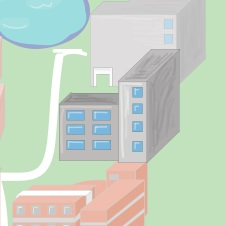
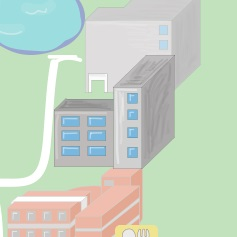
add fiesta

diff --git a/public/css/layout.css b/public/css/layout.css
@@ -35,7 +35,7 @@
 	margin-bottom: 3%;
 	width: 75%;
     padding: 0 5%;
-	background-color: rgba(245, 245, 245, 0.7);
+	background-color: rgba(245, 245, 245, 0.9);
 }
 .nav-margin {
 	margin-top: 10px;
@@ -91,7 +91,7 @@
 }
 
 nav {
-	background-color: #2196f3 !important;
+	background-color: #5D5555 !important;
 }
 .brand-logo {
 	margin-left: 10px;

diff --git a/public/css/campus/map.css b/public/css/campus/map.css
@@ -731,6 +731,19 @@
 	top: 63.8%;
 	width: 4.8%;
 }
+/*fiesta*/
+#food9 {
+	position: absolute;
+	left: 88.5%;
+	top: 60%;
+	width: 3%;
+	z-index: 8;
+}
+#food9:hover {
+	left: 87.5%;
+	top: 59%;
+	width: 5%;
+}
 /*============================================================================*/
 /*international*/
 #live1 {

diff --git a/public/css/campus/style.css b/public/css/campus/style.css
@@ -10,8 +10,8 @@
 .category {
 	border: 1px;
 	border-style: solid;
-	background-color: #FFFFFF;
-	border-color: #FFFFFF;
+	background-color: #F5F5F5;
+	border-color: #F5F5F5;
 	color: black;
 	font-weight: bold;
 }

diff --git a/public/js/campus/campus.js b/public/js/campus/campus.js
@@ -5,7 +5,7 @@ $(document).ready(function() {
 			$(this).css("border-color", "#0D47A1");
 		},
 		function() {
-			$(this).css("border-color", "#FFFFFF");
+			$(this).css("border-color", "#F5F5F5");
 		}
 	);
 

diff --git a/resources/views/campus/editView.blade.php b/resources/views/campus/editView.blade.php
@@ -38,7 +38,7 @@
 			@for($i=1; $i<=9; $i++)
 				<option value="sport{{$i}}" {{isset($view)&&$view->region=='sport'.$i?'selected="selected"':''}}>sport{{$i}}</option>
 			@endfor
-			@for($i=1; $i<=8; $i++)
+			@for($i=1; $i<=9; $i++)
 				<option value="food{{$i}}" {{isset($view)&&$view->region=='food'.$i?'selected="selected"':''}}>food{{$i}}</option>
 			@endfor
 			@for($i=1; $i<=13; $i++)

diff --git a/resources/views/campus/showView.blade.php b/resources/views/campus/showView.blade.php
@@ -9,7 +9,7 @@
 		</div>
 		<img id="view" src="{{ asset('uploads/campus/'.$view->picName) }}">
 	</div>
-	<div class="card white">
+	<div class="card grey lighten-4">
 		<div class="card-content">
 			<span class="card-title indigo-text text-darken-4" id="title_text">
 				{{ $view->title }}

diff --git a/resources/views/campus/addView.blade.php b/resources/views/campus/addView.blade.php
@@ -37,7 +37,7 @@
 			@for($i=1; $i<=9; $i++)
 				<option value="sport{{$i}}">sport{{$i}}</option>
 			@endfor
-			@for($i=1; $i<=8; $i++)
+			@for($i=1; $i<=9; $i++)
 				<option value="food{{$i}}">food{{$i}}</option>
 			@endfor
 			@for($i=1; $i<=13; $i++)
